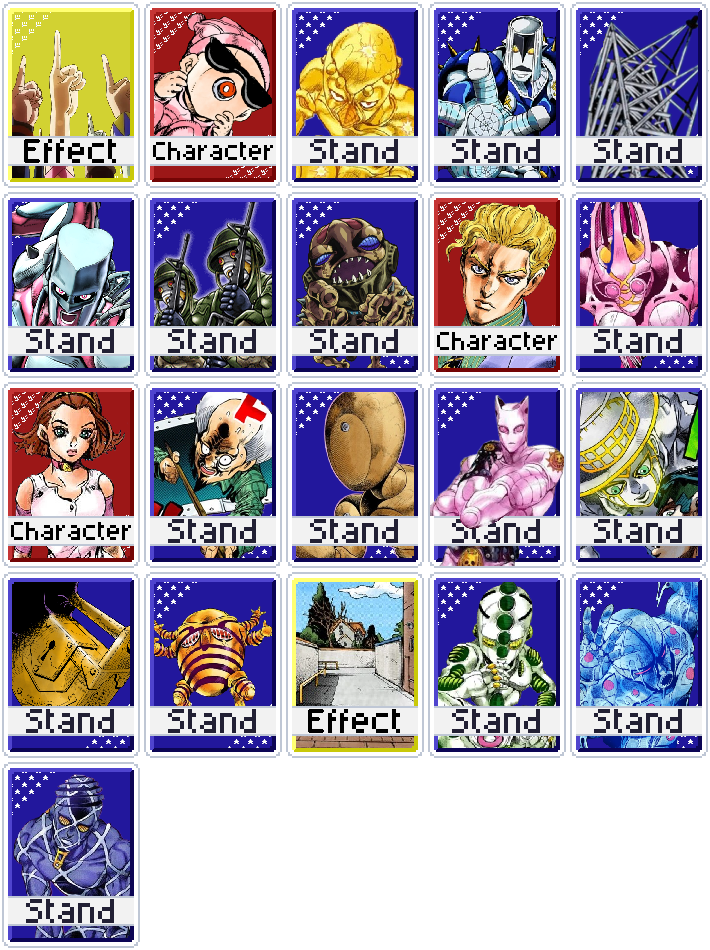
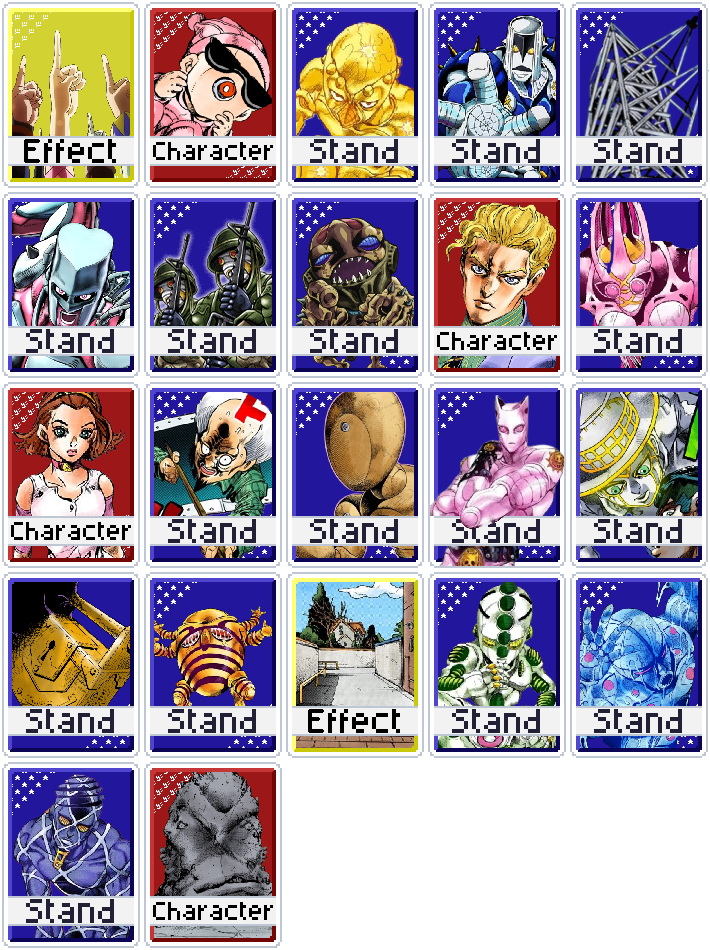
Add Angelo joker

Changed region(s): [[0.1859, 0.7937, 0.4028, 1.0]]

diff --git a/compendium/tests/test_lua_env.py b/compendium/tests/test_lua_env.py
@@ -7,13 +7,13 @@ def find(mod, key):
 
 
 def test_loads_every_joker(mod):
-    assert len(mod.jokers) == 164
+    assert len(mod.jokers) == 165
 
 
 def test_order_is_collection_order(mod):
     types = [j.jtype for j in mod.jokers]
     assert types == sorted(types, key=["Character", "Effect", "Stand"].index)
-    assert mod.jokers[0].key == "baron_zeppeli"
+    assert mod.jokers[0].key == "angelo"
 
 
 def test_aerosmith_fields(mod):

diff --git a/compendium/tests/test_mod_data.py b/compendium/tests/test_mod_data.py
@@ -56,5 +56,5 @@ def test_similar_groups(rel):
 def test_counts_match_themes_doc(mod):
     themes = {t for j in mod.jokers for t in j.themes_core + j.themes_support}
     assert len(themes) == 57
-    assert sum(len(j.conflicts) for j in mod.jokers) == 76
+    assert sum(len(j.conflicts) for j in mod.jokers) == 79
     assert len({g for j in mod.jokers for g in j.similar}) == 26

diff --git a/compendium/tests/test_build.py b/compendium/tests/test_build.py
@@ -28,7 +28,7 @@ def test_outputs_exist(site):
 
 
 def test_data_has_every_joker(data):
-    assert len(data["jokers"]) == 164 and data["version"] == "v9.9.9"
+    assert len(data["jokers"]) == 165 and data["version"] == "v9.9.9"
     assert len(data["themes"]) == 57
 
 

diff --git a/.claude/skills/create-joker/SKILL.md b/.claude/skills/create-joker/SKILL.md
@@ -135,6 +135,11 @@ jd_def["j_jojoker_kiss"] = {
 }
 ```
 
+Localization colour names are not `G.C` keys. `G.C.ATTENTION` does not exist, so it is
+`nil` and renders white with no error, both here and in a `calculate` return's `colour`.
+`{C:attention}` maps to `G.C.FILTER`. Match the colour other displays use for the same
+kind of value (ex. `G.C.GREEN` for a `+N` size bonus like Oh Lonesome Me).
+
 ## 7. Localization
 
 `localization/en-us.lua`, in the part's section, positioned to match the joker list order.
